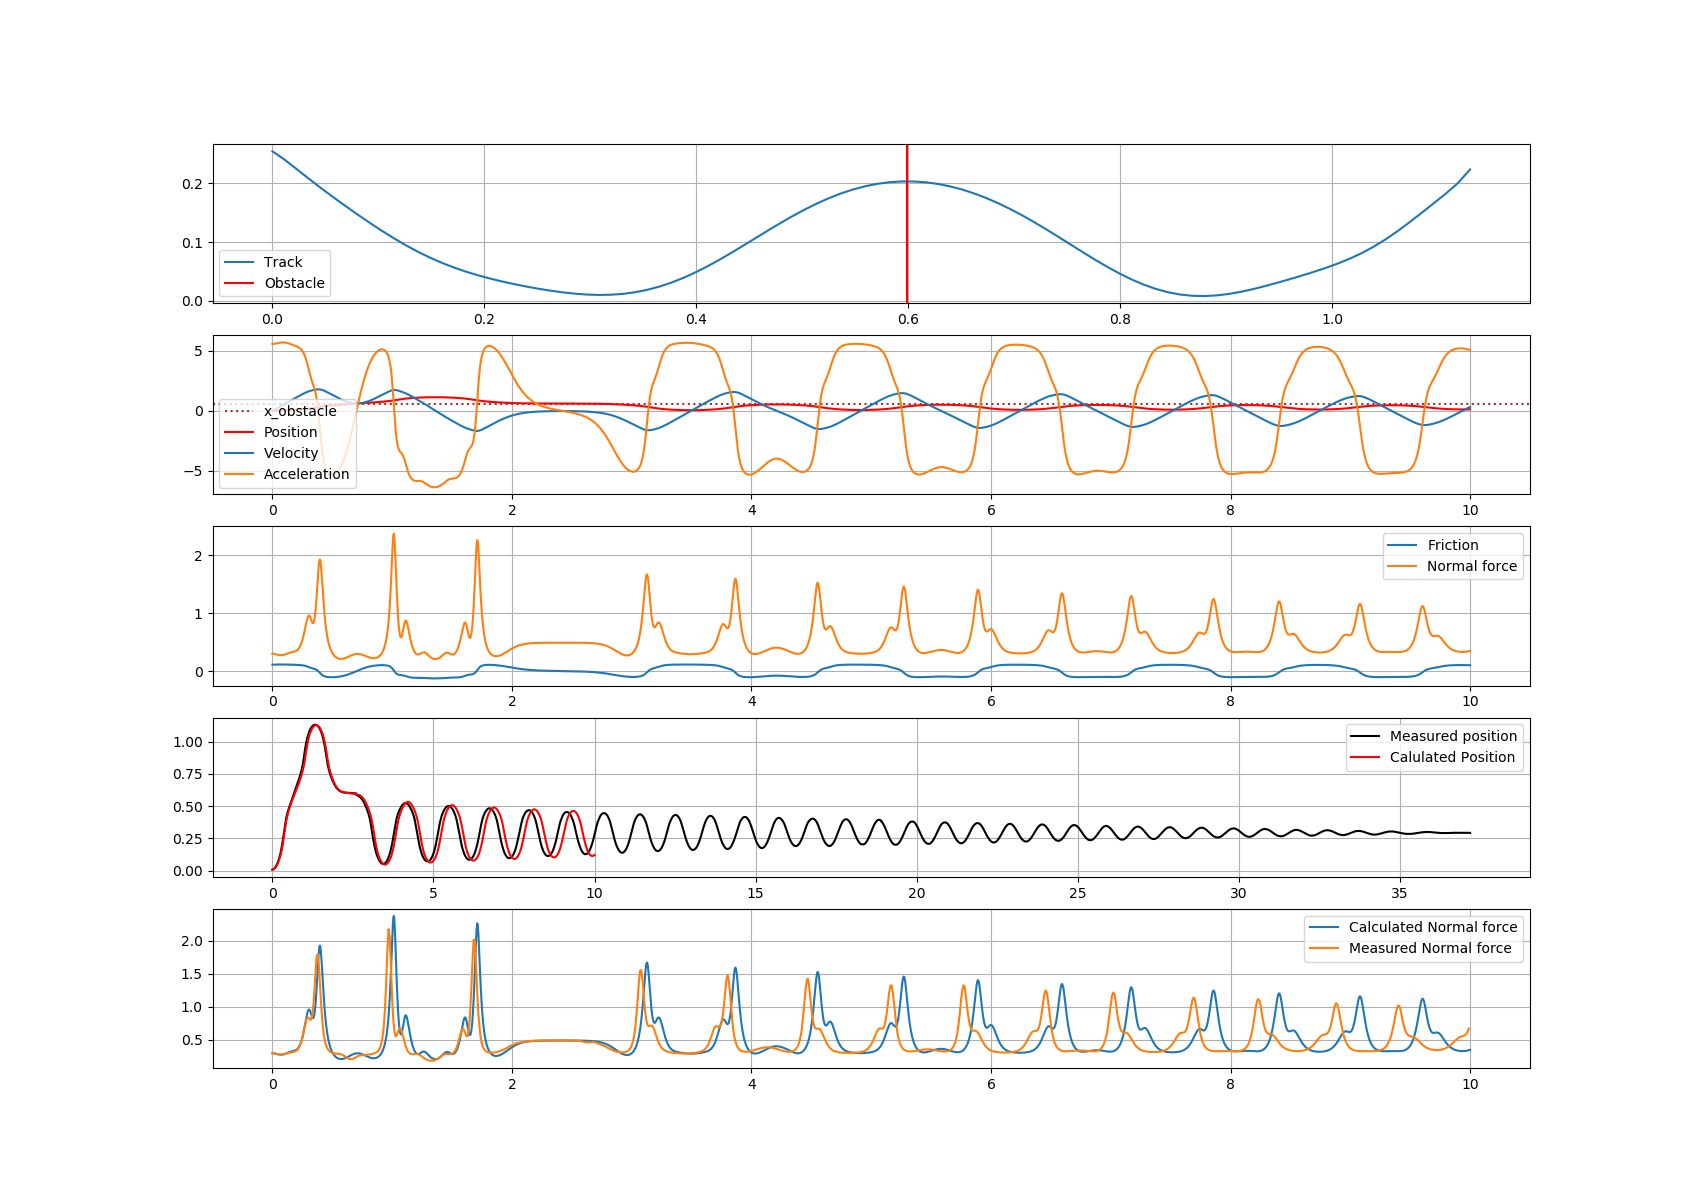
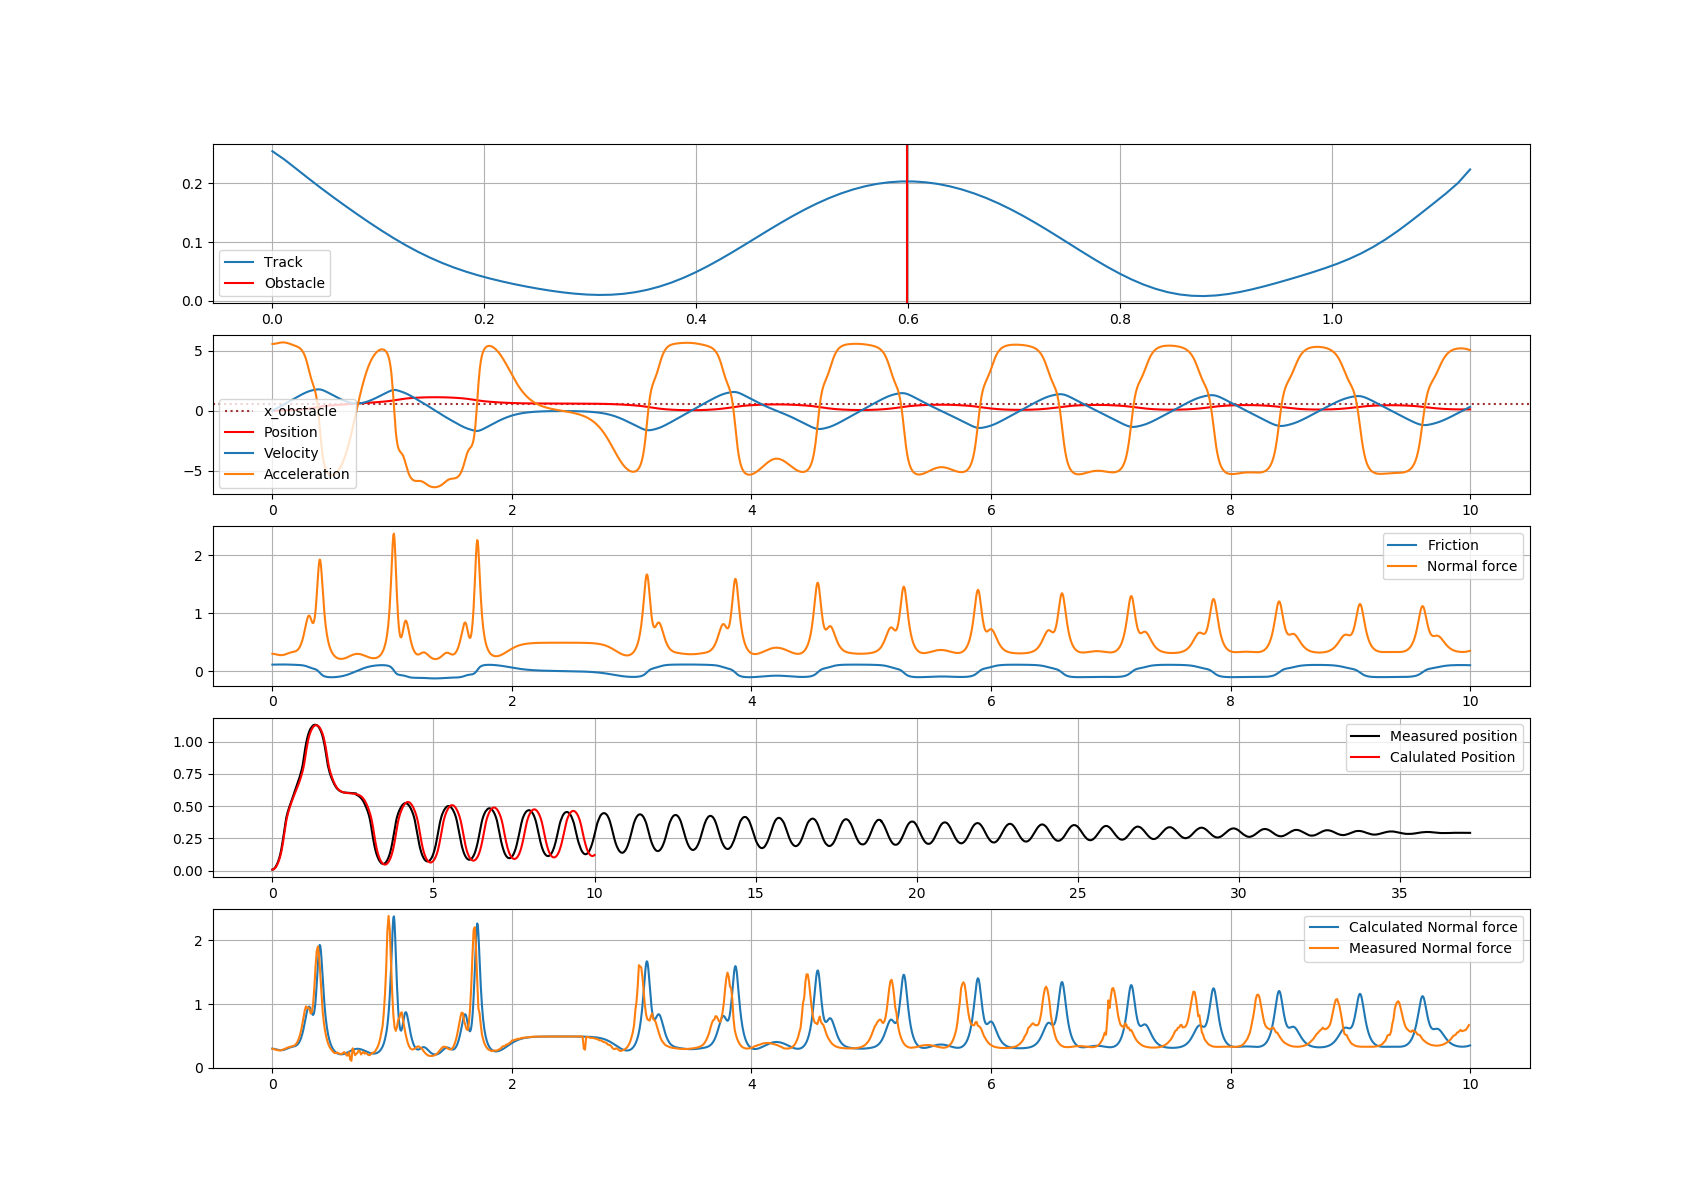
Output more graphs

Changed region(s): [[0.1559, 0.7708, 0.8729, 0.8942]]

diff --git a/plot_numerical_model.py b/plot_numerical_model.py
@@ -18,6 +18,10 @@ def plot_measured_numerical_model():
     obstacle_x = 0.59890243
     #print(f"Roots at {np.roots(np.polyder(polynom))}") # Used to find obstacle_x candidates
     print(f"Obstacle at {obstacle_x}")
+    exponents = [len(polynom)-i-1 for i in range(len(polynom))]
+    pstr = ("x^{{{}}} + ".join([str(round(x, 3)) for x in polynom])).format(*exponents)
+    pstr = pstr.replace("+ -", "- ")
+    print("Polynom: " + pstr)
     
     # Values here are measured during experiment
     ball = num_integ.Ball(mass=0.05, radius=0.0189/2, start_x=ball_x, start_y=ball_y)
@@ -52,46 +56,133 @@ def plot_measured_numerical_model():
     passes = passChecker.detectPasses(integrator.time, integrator.position, integrator.velocity)
     print(f"Found {len(passes)} passes")
     
+    # Error calculations
+    delta_mass = 0.0001
+    delta_gravity = 0.004
+    def plotError():
+      acc = np.array(integrator.acceleration)
+      v = np.array(integrator.velocity)
+      g = 9.81
+      m = 0.05
+      def R_alpha(x):
+        info = integrator.track.track_info(x)
+        return info.R, info.alpha
+      r_a = np.array([R_alpha(x) for x in integrator.position])
+      r = r_a[:,0]
+      alpha = r_a[:,1]
+
+      friction_error = np.abs(acc)*(2/5)*delta_mass
+      normalForce_error = np.sqrt(np.square(\
+            ((v*v)/(r) + g*np.cos(alpha))*delta_mass
+          )\
+        + np.square(\
+            m*np.cos(alpha)*delta_gravity\
+          ))
+    
+      fig, ax0 = plt.subplots(1, figsize=(16, 9))
+      ax0.set_xlim(0, 10)
+      ax0.plot(integrator.time, friction_error, label="Delta f")
+      ax0.plot(integrator.time, normalForce_error, label="Delta N")
+      ax0.set_xlabel("Time [s]")
+      ax0.set_ylabel("Error [N]")
+      ax0.legend()
+      figure_path = "out/figure_graphs_simulated_delta_f_N.png"
+      fig.savefig(figure_path, dpi=96)
+    
+    plotError()
 
     # Plot stuff
-    fig, (ax0, ax1, ax2, ax3, ax4) = plt.subplots(5, figsize=(17, 12))
+    fig, (ax0) = plt.subplots(1, figsize=(16, 9))
     
     measured_index = min(int(steps*integrator.timestep/0.01), len(measured_time))
 
     # Plot the track and obstacle position, and mark where flight/lifoff happened (if any)
     x = np.linspace(0, track_end_x, 100)
+    ax0.set_xlim(0, track_end_x)
     ax0.plot(x, np.polyval(polynom, x), label="Track")
-    ax0.axvline(obstacle_x, label="Obstacle", color="red")
+    ax0.set_xlabel("x [m]")
+    ax0.set_ylabel("y [m]")
+    ax0.axvline(obstacle_x, label="Obstacle x=" + str(round(obstacle_x, 5)), color="red")
     ax0.legend()
     if flight:
         ax0.axvline(x=flight, label="Error! Liftoff/flight here")
-    
+    figure_path = "out/figure_graphs_simulated_track.png"
+    fig.savefig(figure_path, dpi=96)
+
     # Plot the calculated values and show a horizontal line for the obstacle
-    ax1.axhline(obstacle_x, label="x_obstacle", color="darkred", linestyle="dotted", alpha=0.8)
-    ax1.plot(integrator.time, integrator.position, label="Position", color="red")
+    fig, (ax1) = plt.subplots(1, figsize=(16, 9))
+    ax1.axhline(obstacle_x, label="Obstacle", color="darkred", linestyle="dotted", alpha=0.8)
+    ax1.plot(integrator.time, integrator.position, label="x position", color="red")
+    ax1.set_xlim(0, 10)
+    ax1.set_xlabel("Time [s]")
+    ax1.set_ylabel("x [m]")
+    ax1.legend(loc="lower right")
+    figure_path = "out/figure_graphs_simulated_x.png"
+    fig.savefig(figure_path, dpi=96)
+    
+    fig, (ax1) = plt.subplots(1, figsize=(16, 9))
     ax1.plot(integrator.time, integrator.velocity, label="Velocity")
+    ax1.set_xlim(0, 10)
+    ax1.set_xlabel("Time [s]")
+    ax1.set_ylabel("Parallell velocity [m/s]")
+    ax1.legend(loc="lower right")
+    figure_path = "out/figure_graphs_simulated_v.png"
+    fig.savefig(figure_path, dpi=96)
+
+    fig, (ax1) = plt.subplots(1, figsize=(16, 9))
     ax1.plot(integrator.time, integrator.acceleration, label="Acceleration")
-    ax1.legend()
-    
+    ax1.set_xlim(0, 10)
+    ax1.set_xlabel("Time [s]")
+    ax1.set_ylabel("Parallell acceleration [m/s^2]")
+    ax1.legend(loc="lower right")
+    figure_path = "out/figure_graphs_simulated_a.png"
+    fig.savefig(figure_path, dpi=96)
+
     # Plot the calculated forces
-    ax2.plot(integrator.time, frictions, label="Friction")
+    fig, (ax2) = plt.subplots(1, figsize=(16, 9))
+    ax2.set_xlim(0, 10)
+    ax2.plot(integrator.time, np.abs(frictions), label="Friction")
     ax2.plot(integrator.time, normalForces, label="Normal force")
+    ax2.set_xlabel("Time [s]")
+    ax2.set_ylabel("Force [N]")
     ax2.legend()
-    
+    figure_path = "out/figure_graphs_simulated_force.png"
+    fig.savefig(figure_path, dpi=96)
+
     # Plot comparisons to the "real" values, measured with Tracker
+    fig, (ax3) = plt.subplots(1, figsize=(12, 6))
+    ax3.set_xlim(0, 10)
+    ax3.axhline(obstacle_x, label="Obstacle", color="darkred", linestyle="dotted", alpha=0.8)
     ax3.plot(measured_data[:,0], measured_data[:,1], label="Measured position", color="black")
     ax3.plot(integrator.time, integrator.position, label="Calulated Position", color="red")
+    ax3.set_xlabel("Time [s]")
+    ax3.set_ylabel("x [m]")
     ax3.legend()
 
+    figure_path = "out/figure_graphs_comparison_x.png"
+    fig.savefig(figure_path, dpi=96)
+
+
+    fig, (ax4) = plt.subplots(1, figsize=(12, 6))
+    ax4.set_xlim(0, 10)    
     ax4.plot(integrator.time, normalForces, label="Calculated Normal force")
     ax4.plot(measured_time[:measured_index], measured_normalForces[:measured_index], label="Measured Normal force")
+    ax4.set_xlabel("Time [s]")
+    ax4.set_ylabel("Force [N]")
     ax4.legend()
+    figure_path = "out/figure_graphs_comparison_n.png"
+    fig.savefig(figure_path, dpi=96)
 
-    print("Showing plots")
-    figure_path = "out/figure_graphs_all.png"
-    fig.savefig(figure_path)
-    print("Saved figure of all plots to " + figure_path)
-    plt.show(block=True)
+
+    fig, (ax5) = plt.subplots(1, figsize=(12, 6))
+    ax5.set_xlim(0, 10)
+    ax5.plot(integrator.time, integrator.velocity, label="Calculated velocity")
+    ax5.plot(measured_time, measured_v, label="Measured velocity")
+    ax5.set_xlabel("Time [s]")
+    ax5.set_ylabel("Track parallell velocity [m/s]")
+    ax5.legend()
+    figure_path = "out/figure_graphs_comparison_v.png"
+    fig.savefig(figure_path, dpi=96)
 
 if __name__ == '__main__':
   plot_measured_numerical_model()

diff --git a/numerics/tracker/filter_values.py b/numerics/tracker/filter_values.py
@@ -13,12 +13,12 @@ def calculate_track_values(data: np.ndarray) -> np.ndarray:
     i += 1
     (prev_x, prev_y) = data[i-1][1:]
     (next_x, next_y) = data[i+1][1:]
-    distance = (next_x-prev_x)
+    distance = np.sign(next_x-prev_x)*np.sqrt((next_x-prev_x)**2 + (next_y - prev_y)**2)
     #delta_time = t - data[i-1][0]
     velocity = distance/(2*delta_time)
     velocities.append(velocity)
   velocities.append((velocities[-1] - velocities[-2])/delta_time)
-  velocities = smooth_data(velocities)
+  #velocities = smooth_data(velocities)
 
   accelerations = [0]
   for i, velocity in enumerate(velocities[1:]):
